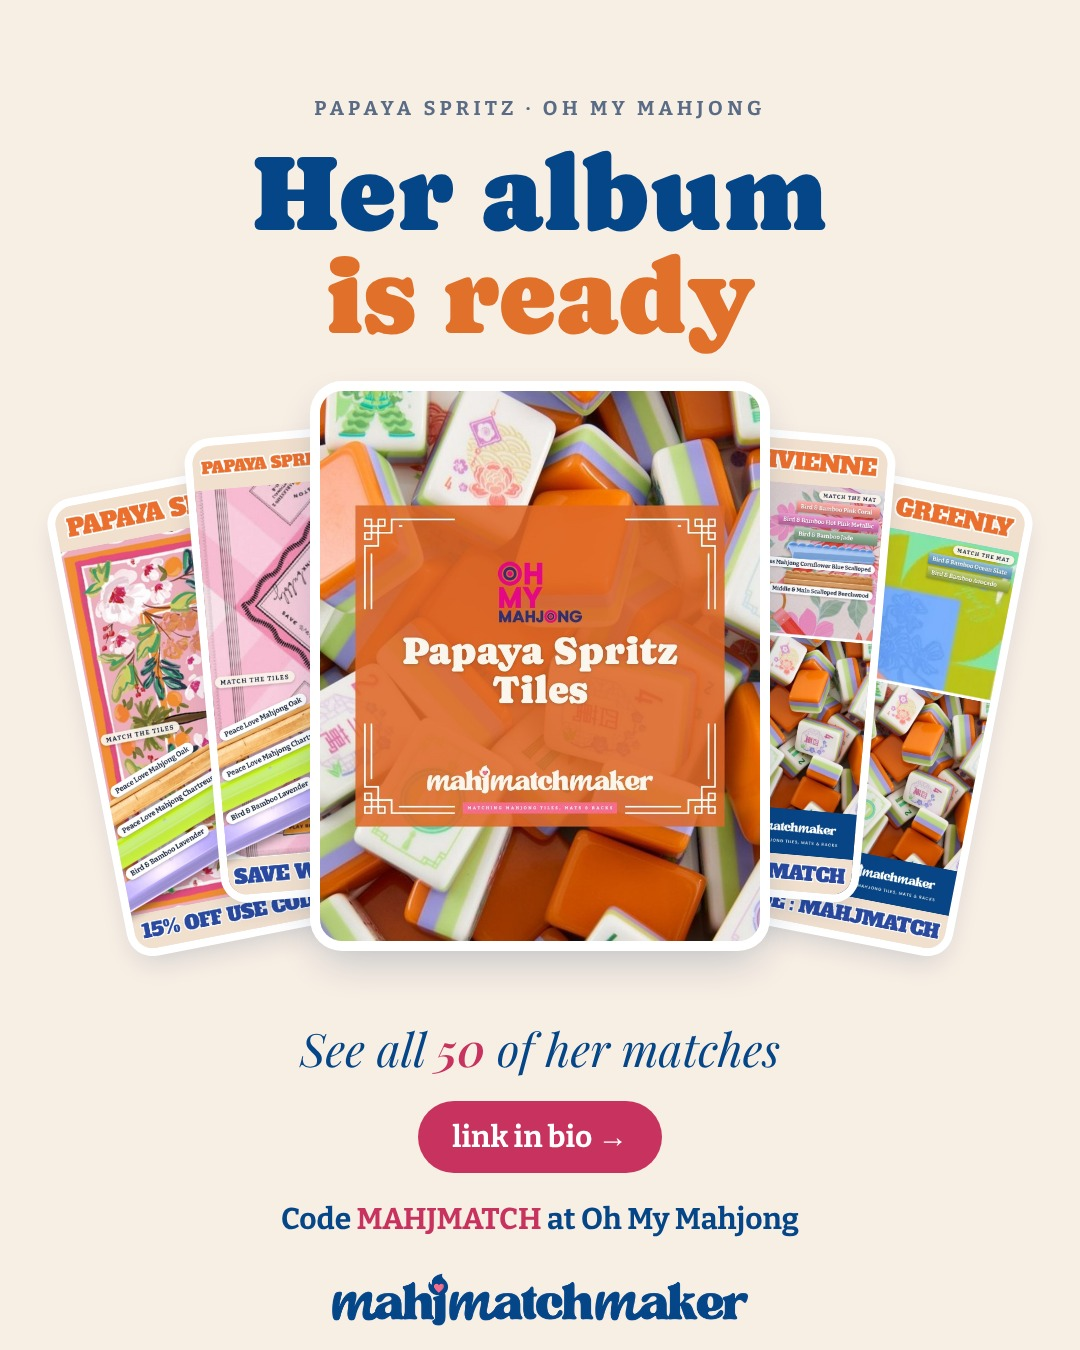
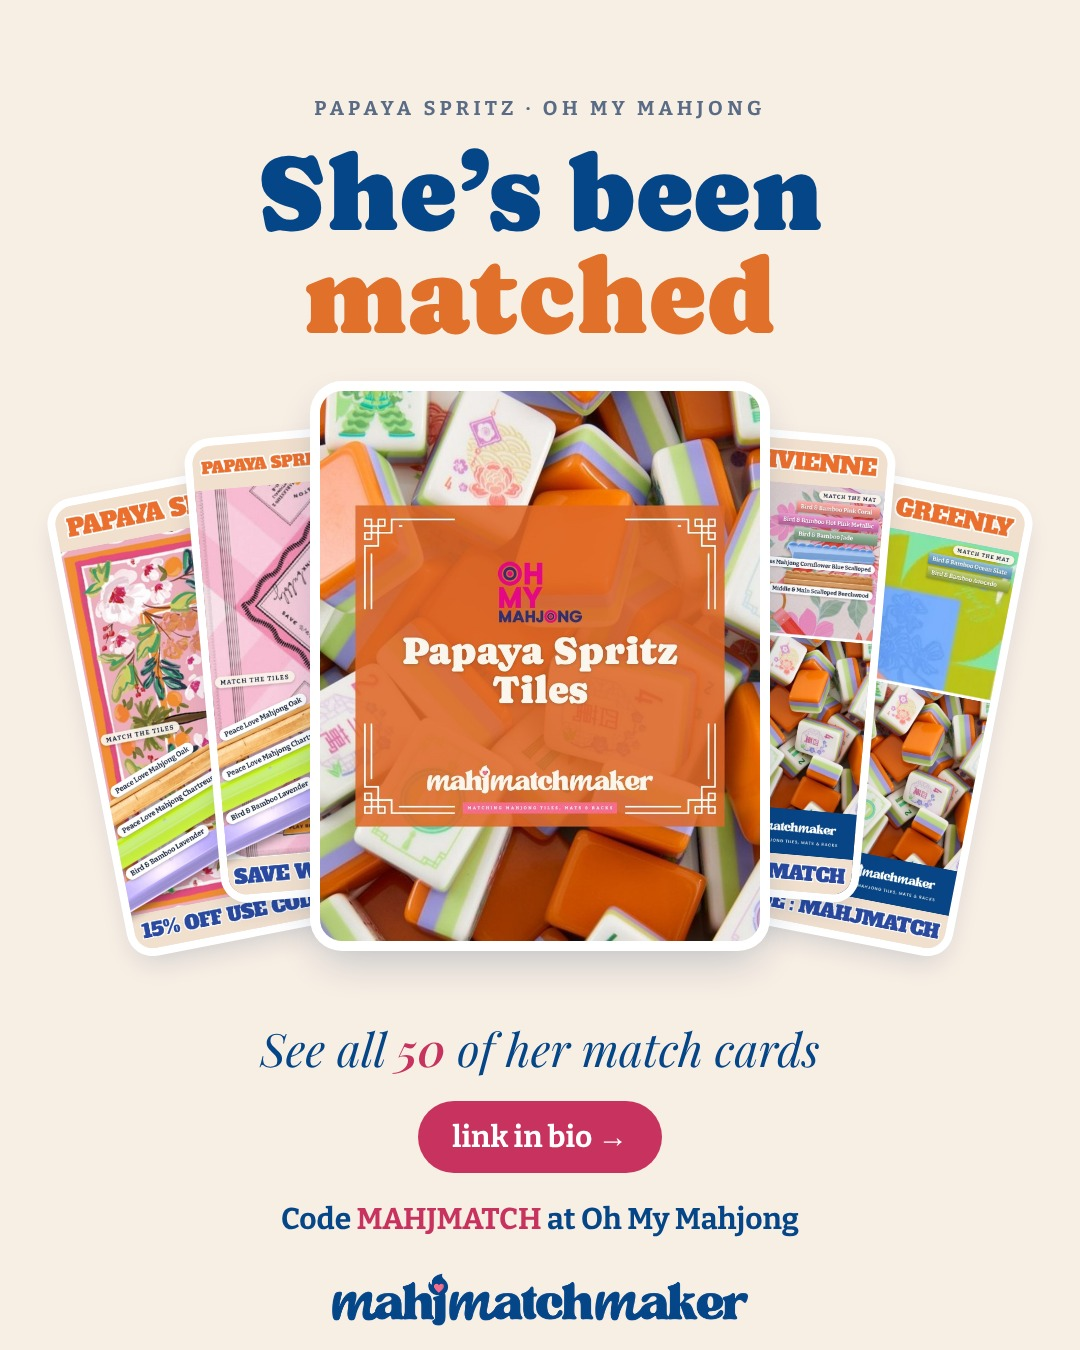
Papaya intro end slide: She's been matched / see all 50 of her match cards
Claude-Session: https://claude.ai/code/session_014aKoC1ZMdZPjGkZ9kHhnLk

Changed region(s): [[0.2139, 0.0933, 0.7639, 0.28], [0.2444, 0.7467, 0.7639, 0.8089]]

diff --git a/assets/social/papaya-spritz-launch/html/intro-7.html b/assets/social/papaya-spritz-launch/html/intro-7.html
@@ -25,9 +25,9 @@ html,body{width:1080px;height:1350px;overflow:hidden;background:#f7eee4;color:#0
 </style></head><body>
 <div style="position:absolute;inset:0;display:flex;flex-direction:column;align-items:center;text-align:center;padding:96px 80px 0">
  <div class="caps" style="font-size:20px;color:#5a6b85">Papaya Spritz · Oh My Mahjong</div>
- <div class="cap" style="font-size:108px;margin-top:22px;line-height:.95">Her album<br><span style="color:var(--acc)">is ready</span></div>
+ <div class="cap" style="font-size:108px;margin-top:22px;line-height:.95">She&rsquo;s been<br><span style="color:var(--acc)">matched</span></div>
  <div style="position:relative;margin-top:34px;width:900px;height:590px"><div class="ph" style="position:absolute;left:2px;top:90px;width:360px;height:450px;border-radius:18px;background-image:url(file:///home/claude/mahjmatchmaker-data/assets/cards/papaya-spritz/papaya-spritz-mahjong-tiles-britt-mills-heiress-mat.jpg);box-shadow:0 0 0 8px #fff,0 12px 28px rgba(6,40,90,.18);transform:rotate(-11deg);z-index:1"></div><div class="ph" style="position:absolute;left:538px;top:90px;width:360px;height:450px;border-radius:18px;background-image:url(file:///home/claude/mahjmatchmaker-data/assets/cards/papaya-spritz/papaya-spritz-mahjong-tiles-mahj-and-vine-greenly-mat.jpg);box-shadow:0 0 0 8px #fff,0 12px 28px rgba(6,40,90,.18);transform:rotate(11deg);z-index:1"></div><div class="ph" style="position:absolute;left:120px;top:50px;width:360px;height:450px;border-radius:18px;background-image:url(file:///home/claude/mahjmatchmaker-data/assets/cards/papaya-spritz/papaya-spritz-mahjong-tiles-anders-ruff-press-for-mahjong-mat.jpg);box-shadow:0 0 0 8px #fff,0 12px 28px rgba(6,40,90,.18);transform:rotate(-5deg);z-index:2"></div><div class="ph" style="position:absolute;left:420px;top:50px;width:360px;height:450px;border-radius:18px;background-image:url(file:///home/claude/mahjmatchmaker-data/assets/cards/papaya-spritz/papaya-spritz-mahjong-tiles-oh-my-mahjong-vivienne-mat.jpg);box-shadow:0 0 0 8px #fff,0 12px 28px rgba(6,40,90,.18);transform:rotate(5deg);z-index:2"></div><div class="ph" style="position:absolute;left:230px;top:10px;width:440px;height:550px;border-radius:22px;z-index:5;background-image:url(file:///home/claude/mahjmatchmaker-data/assets/covers/albums/w800/00-papaya-spritz-mahjong-tiles-cover.jpg);box-shadow:0 0 0 10px #fff,0 18px 40px rgba(6,40,90,.24)"></div></div>
- <div class="pf" style="font-size:46px;margin-top:46px">See all <b style="font-weight:600;color:var(--pink)">50</b> of her matches</div>
+ <div class="pf" style="font-size:46px;margin-top:46px">See all <b style="font-weight:600;color:var(--pink)">50</b> of her match cards</div>
  <div class="pill" style="margin-top:22px;background:var(--pink)">link in bio &rarr;</div>
  <div style="margin-top:28px;font:700 30px Bit">Code <span style="color:var(--pink)">MAHJMATCH</span> at Oh My Mahjong</div>
  <img src="file:///home/claude/mahjmatchmaker-data/assets/brand/mahjmatchmaker-wordmark-notag.png" style="width:420px;margin-top:34px">

diff --git a/scripts/social/tileprofile/intro.py b/scripts/social/tileprofile/intro.py
@@ -1,7 +1,7 @@
 """Post 1 of every tile set row: "Meet <set>", her INTRODUCTION carousel (Tiffany, Oct 19 evening).
 Slides (Oct 19 night): 1 dating profile (cover) / 2 her colors (layer diagram + small color wheel) /
 3 her faces (brand photo of the faces + main & supporting color cards) / 4 her best features (favorite tiles) /
-5 racks she's into / 6 made for each other (favorite match) / 7 her album is ready.
+5 racks she's into / 6 made for each other (favorite match) / 7 she's been matched.
 No baked-in dots (Instagram shows its own). Needs carousel.py html first (s2 colors, s3 racks, s4 pair).
 Usage: python3 intro.py papaya-spritz"""
 import sys, os, re, subprocess
@@ -37,9 +37,9 @@ fan += (f'<div class="ph" style="position:absolute;left:{450 - 220}px;top:10px;w
 end = f"""<!doctype html><html><head><meta charset=utf8><style>{css(1080, 1350, S['col'])}</style></head><body>
 <div style="position:absolute;inset:0;display:flex;flex-direction:column;align-items:center;text-align:center;padding:96px 80px 0">
  <div class="caps" style="font-size:20px;color:#5a6b85">{e(P['name'])} · {e(P['brand'])}</div>
- <div class="cap" style="font-size:108px;margin-top:22px;line-height:.95">Her album<br><span style="color:var(--acc)">is ready</span></div>
+ <div class="cap" style="font-size:108px;margin-top:22px;line-height:.95">She&rsquo;s been<br><span style="color:var(--acc)">matched</span></div>
  <div style="position:relative;margin-top:34px;width:900px;height:590px">{fan}</div>
- <div class="pf" style="font-size:46px;margin-top:46px">See all <b style="font-weight:600;color:var(--pink)">{P['matches']}</b> of her matches</div>
+ <div class="pf" style="font-size:46px;margin-top:46px">See all <b style="font-weight:600;color:var(--pink)">{P['matches']}</b> of her match cards</div>
  <div class="pill" style="margin-top:22px;background:var(--pink)">link in bio &rarr;</div>
  <div style="margin-top:28px;font:700 30px Bit">Code <span style="color:var(--pink)">MAHJMATCH</span> at {e(P['brand'])}</div>
  <img src="{url('assets/brand/mahjmatchmaker-wordmark-notag.png')}" style="width:420px;margin-top:34px">
